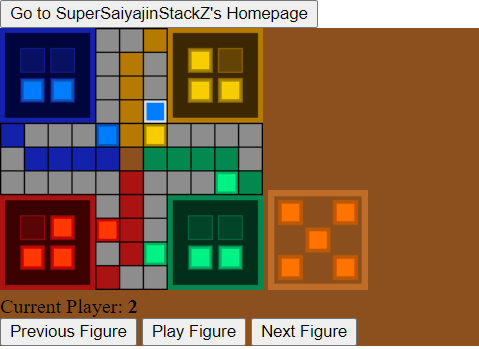
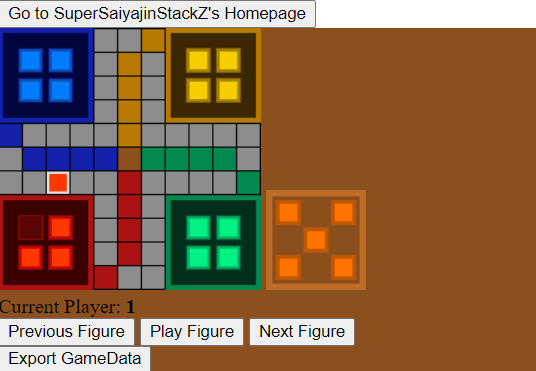
Siehe beschreibung für mehr.
- Spieldaten lassen sich nun Importieren als auch Exportieren.

(Diese sind ebenfalls kompatibel mit Ludo3DS.. was bedeutet, dass diese mit Ludo3DS als auch LudoJS funktionieren).

diff --git a/assets/js/main.js b/assets/js/main.js
@@ -29,11 +29,13 @@ import { CoreHelper_RefreshField, CoreHelper_RollDice, ClearDice, InitGraphics }
 import { LudoGame } from './core/game.js';
 let Game, alreadyLoaded = false;
 
+/* Starte das Spiel. */
 document.getElementById("GameStart").onclick = () => Init();
-document.getElementById("HomePage").onclick = function() {
-	window.location.href = "https://supersaiyajinstackz.github.io/";
-};
 
+/* Gehe zur Hauptseite. */
+document.getElementById("HomePage").onclick = () => window.location.href = "https://supersaiyajinstackz.github.io/";
+
+/* Verstecke die Info box. */
 document.getElementById("InfoBoxBtn").onclick = function() {
 	document.getElementById("InfoBox").classList.add("showNone");
 };
@@ -149,4 +151,134 @@ function ResetGame() {
 	document.getElementById("GamePlay").classList.add("showNone");
 	document.getElementById("Dice").classList.add("showNone");
 	document.getElementById("CurrentPlayer").innerText = 1; // Spieler 1.
+};
+
+/*
+	------------------------------------
+			Speicherdaten.
+	------------------------------------
+*/
+
+/*
+	Speicher Struktur von Ludo3DS & LudoJS.
+*/
+const SavStruct = {
+	Current_Player: 0x0,
+	Player_Amount: 0x1,
+	Figur_Amount: 0x2,
+
+	Figur_Size: 0x2, // 0x0 -> Position, 0x1 -> ob fertig. 0x2 pro Figur.
+	Player_Size: 0x8, // Jeweils 4 Figuren, was 0x8 entspricht.
+
+	Player1: 0x3, // 0x3 - 0xA.
+	Player2: 0xB, // 0xB - 0x12.
+	Player3: 0x13, // 0x13 - 0x1A.
+	Player4: 0x1B, // 0x1B - 0x22.
+
+	DataSize: 0x23 // 0x23 --> 35 byte.
+};
+
+
+/* Importiere ein bereits gestartetes Spiel von Ludo3DS oder LudoJS. */
+document.getElementById("ImportGame").onclick = function() {
+	let input = document.createElement("input");
+	input.type = "file";
+	input.accept = ".dat";
+	input.click(); // Führe Datei-Selektion aus.
+
+	input.onchange = function(e) {
+		if (!e.target.files[0]) {
+			alert("No Gamedata file selected!");
+			return false;
+		}
+
+		let fileSize = e.target.files[0].size;
+
+		if (fileSize == SavStruct.DataSize) {
+			let reader = new FileReader();
+
+			reader.readAsArrayBuffer(e.target.files[0]);
+			reader.onload = function() {
+				let Data = new Uint8Array(this.result);
+
+				let PAmount, FAmount, CPlayer;
+				CPlayer = Data[SavStruct.Current_Player]; // Der Aktuelle Spieler.
+				PAmount = Data[SavStruct.Player_Amount]; // Spieler Anzahl.
+				FAmount = Data[SavStruct.Figur_Amount]; // Figuren Anzahl.
+
+				if ((PAmount > 4) || (PAmount <= 1)) PAmount = 2; // Setze zu 2, weil 1- / 5+ verboten ist.
+				if ((FAmount > 4) || (FAmount <= 0)) FAmount = 1; // Setze zu 1, weil 0 / 5+ verboten ist.
+				if (CPlayer > PAmount) CPlayer = PAmount;
+
+				Game = new LudoGame(PAmount, FAmount); // Erstelle ein Neues Spiel da wir die daten nun haben.
+
+				/* Der Spieler Teil. */
+				for (let player = 0; player < PAmount; player++) {
+					for (let figur = 0; figur < FAmount; figur++) {
+						/* Position. */
+						Game.SetPosition(player, figur, Data[SavStruct.Player1 + (figur * SavStruct.Figur_Size) + (player * SavStruct.Player_Size)]);
+
+						/* Ziel. */
+						Game.SetDone(player, figur, Data[SavStruct.Player1 + 1 + (figur * SavStruct.Figur_Size) + (player * SavStruct.Player_Size)]);
+					}
+				}
+
+				Game.SetCurrentPlayer(CPlayer);
+				InitGraphics();
+				document.getElementById("LoadingText").classList.remove("showNone");
+				if (!alreadyLoaded) setTimeout(LoadGame, 1000);
+				else LoadGame();
+			};
+
+		} else {
+			alert("The size of the game data is not 0x23 (35 byte)!");
+			return false;
+		}
+	};
+};
+
+/* Speichert das aktuelle Spiel zu einer Datei. Diese ist kompatibel mit Ludo3DS. */
+document.getElementById("ExportGame").onclick = function() {
+	let Data = new Uint8Array(SavStruct.DataSize);
+
+	Data[SavStruct.Current_Player] = Game.GetCurrentPlayer();
+	Data[SavStruct.Player_Amount] = Game.GetPlayerAmount();
+	Data[SavStruct.Figur_Amount] = Game.GetFigurAmount();
+
+	/* Der Spieler Teil. */
+	for (let player = 0; player < 4; player++) {
+		if (player < Game.GetPlayerAmount()) {
+
+			for (let figur = 0; figur < 4; figur++) {
+				if (figur < Game.GetFigurAmount()) {
+					/* Position. */
+					Data[SavStruct.Player1 + (figur * SavStruct.Figur_Size) + (player * SavStruct.Player_Size)] = Game.GetPosition(player, figur);
+					/* Ziel. */
+					Data[SavStruct.Player1 + 1 + (figur * SavStruct.Figur_Size) + (player * SavStruct.Player_Size)] = Game.GetDone(player, figur);
+
+				} else {
+					/* Position. */
+					Data[SavStruct.Player1 + (figur * SavStruct.Figur_Size) + (player * SavStruct.Player_Size)] = 0;
+					/* Ziel. */
+					Data[SavStruct.Player1 + 1 + (figur * SavStruct.Figur_Size) + (player * SavStruct.Player_Size)] = 0;
+				}
+			}
+
+		} else {
+			for (let figur = 0; figur < 4; figur++) {
+				/* Position. */
+				Data[SavStruct.Player1 + (figur * SavStruct.Figur_Size) + (player * SavStruct.Player_Size)] = 0;
+				/* Ziel. */
+				Data[SavStruct.Player1 + 1 + (figur * SavStruct.Figur_Size) + (player * SavStruct.Player_Size)] = 0;
+			}
+		}
+	}
+
+	let blob = new Blob([Data], { type: "application/octet-stream" });
+	let a = document.createElement('a');
+	let url = window.URL.createObjectURL(blob);
+	a.href = url;
+	a.download = "GameData.dat";
+	a.click();
+	alert("If you want to use the data for Ludo3DS, place 'GameData.dat' to: 'sdmc:/3ds/Ludo3DS/' and load it from the sub menu.");
 };

diff --git a/index.html b/index.html
@@ -22,10 +22,12 @@
 			<div id="InfoBox">
 				<button id="InfoBoxBtn">Hide Information box</button>
 				<h3>Copyright (C) 2020 by SuperSaiyajinStackZ. You can find the source code <a href="https://github.com/SuperSaiyajinStackZ/LudoJS">here.</a></h3> <!-- Copyright Notiz. -->
-				This is a <a href="https://github.com/SuperSaiyajinStackZ/Ludo3DS">Ludo3DS</a> port to JS, HTML and CSS.<br>
+				This is a <a href="https://github.com/SuperSaiyajinStackZ/Ludo3DS">Ludo3DS</a> port to JS, HTML and CSS.<br>Version: v0.1.0
 
 				<h3>Features including:</h3>
 				* Fully Functional gameplay.<br>
+				* Ability to load an already started game from LudoJS or Ludo3DS.<br>
+				* Ability to save the current game to a file for later re-use. Can also be used for Ludo3DS.<br>
 
 				<h3>Planned things:</h3>
 				* Improvements of the graphics. Possibly higher resolution.<br>
@@ -38,6 +40,7 @@
 				<button id="GameStart">Start Game!</button><br>
 				<label for="PlayerAmount">Player Amount: </label><input type="number" min="2" max="4" id="PlayerAmount" value="2"><br>
 				<label for="FigurAmount">Figure Amount: </label><input type="number" min="1" max="4" id="FigurAmount" value="1"> <br>
+				<button id="ImportGame">Load Game from file</button> <!-- Um die Spieldaten von Ludo3DS als beispiel zu laden. -->
 				<h2 id="LoadingText" class="showNone">Preparing your game...</h2>
 			</div>
 		</div>
@@ -59,6 +62,8 @@
 				<button id="PlayFigur">Play Figure</button>
 				<button id="NextFigur">Next Figure</button>
 			</div>
+
+			<button id="ExportGame">Export GameData</button> <!-- Um die Spieldaten zu exportieren, um sie mit Ludo3DS als beispiel zu verwenden. -->
 		</div>
 	</main>
 </body>

diff --git a/assets/js/core/player.js b/assets/js/core/player.js
@@ -52,5 +52,5 @@ export class LudoPlayer {
 
 	/* Die Position. */
 	GetPosition(figur) { return this.position[Math.min(this.GetAmount() - 1, figur)]; };
-	SetPosition(figur, pos) { this.position[Math.min(this.GetAmount() - 1, figur)] = pos; };
+	SetPosition(figur, pos) { this.position[Math.min(this.GetAmount() - 1, figur)] = Math.min(44, pos); };
 };

diff --git a/README.md b/README.md
@@ -9,6 +9,11 @@ LudoJS' Core wurde geschrieben von [SuperSaiyajinStackZ](https://github.com/Supe
 
 Du kannst das Spiel [hier](https://supersaiyajinstackz.github.io/LudoJS/) testen.
 
+## Features
+- [x] Komplettes Funktionales Spiel.
+- [x] Importieren von Spieldaten von LudoJS, als auch von Ludo3DS.
+- [x] Exportieren von Spieldaten, welche ebenfalls mit Ludo3DS kompatibel sind.
+
 ## Core-Erklärung
 `assets/js/core/coreHelper.js`: Beinhaltet den Würfel und Grafik part.
 
